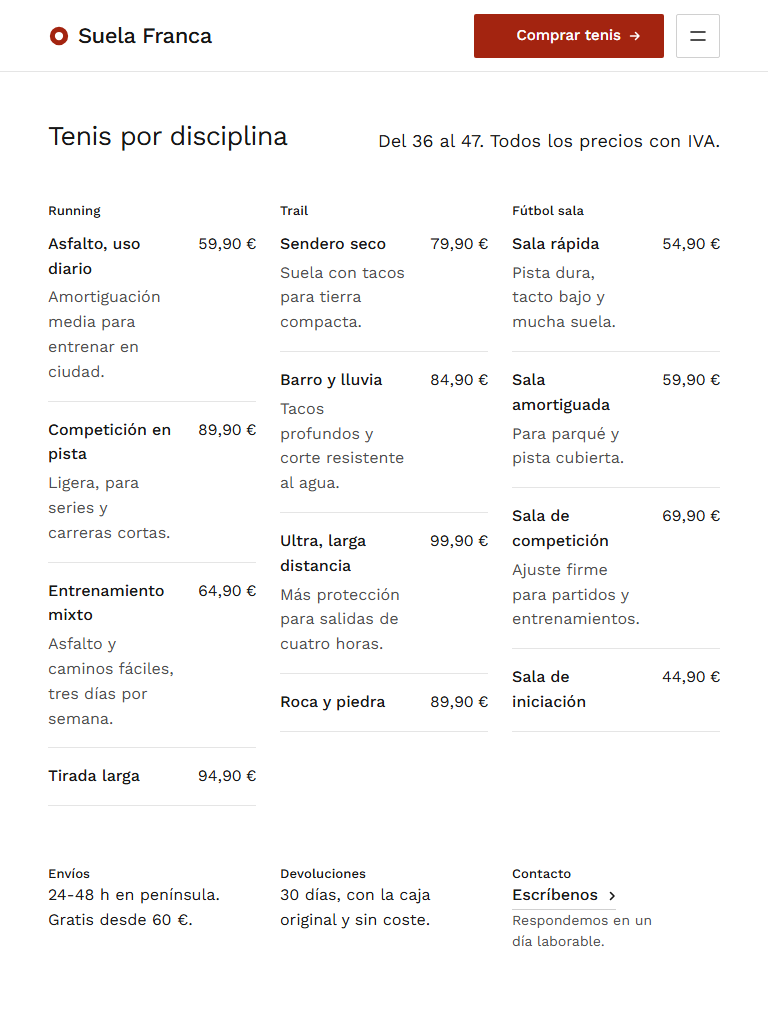
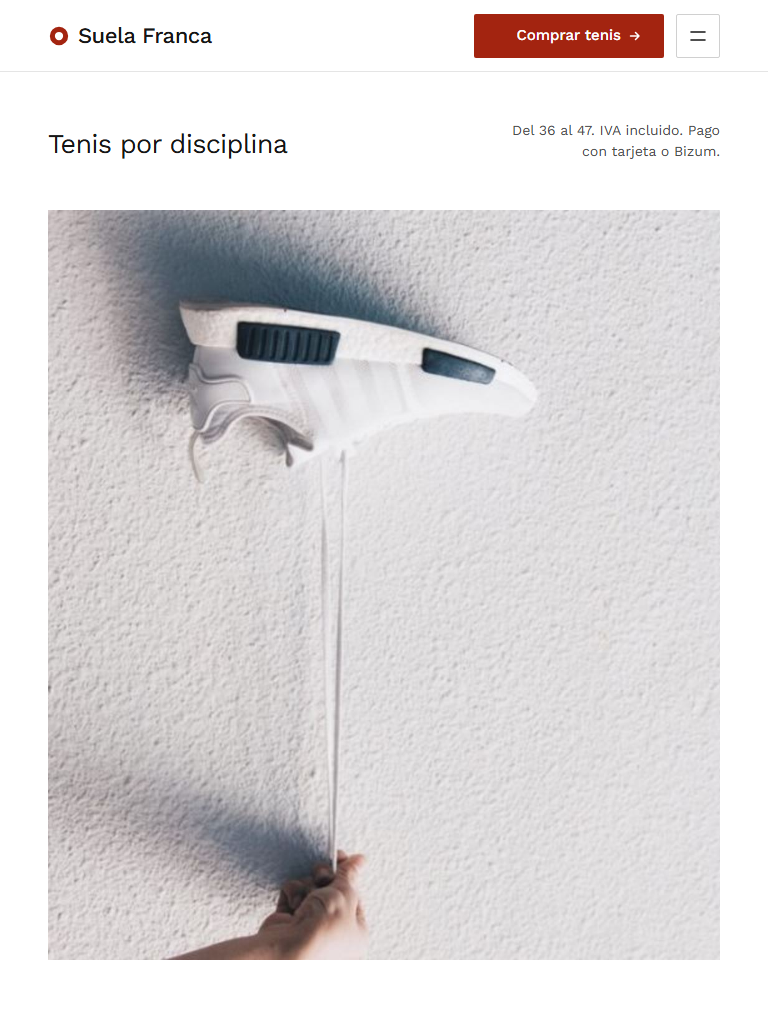
Se agregan imagenes

diff --git a/suela-franca/index.html b/suela-franca/index.html
@@ -1,9 +1,10 @@
 <!doctype html>
 <!-- kind: place (a shop; it sells online, so no street is printed and the visit block carries orders, shipping and contact)
-     deal: hero statement on .ground-brand (no photographs), nav-split, footer-columns, rhythm space (the colour-band
-           close is dropped: the hero is the page's one brand band), buttons arrow, mark ring, no effect, no moment,
-           no scene; the short page drops the place section, the type moment and the rooms layout.
-     copy: Suela Franca, a coined name (names.json); Valencia and the prices, shipping and returns terms are assumed. -->
+     deal: hero--place (the photograph full-bleed under the header, the words below on the ground), nav-split,
+           footer-columns, rhythm space, buttons arrow, mark ring, no effect, no moment, no scene; the short page
+           drops the place section, the type moment and the rooms layout. One photograph sits in the offer row.
+     copy: Suela Franca, a coined name (names.json); Valencia and the prices, shipping and returns terms are assumed.
+     photos: Rawpixel and Allie Nimmons (CC0), temporary stand-ins for the shop's own running, trail and futsal frames. -->
 <html lang="es" data-type="place" data-page-mode="short" data-radius="soft" data-buttons="arrow" data-motion>
 <head>
 <meta charset="utf-8">
@@ -13,6 +14,8 @@
 <meta name="site-kind" content="other">
 <meta name="page-type" content="place">
 <meta name="page-kind" content="place">
+<link rel="preload" href="assets/fonts/worksans-latin.woff2" as="font" type="font/woff2" crossorigin>
+<link rel="preload" href="assets/fonts/worksans-latin-ext.woff2" as="font" type="font/woff2" crossorigin>
 <link rel="stylesheet" href="assets/system.css">
 <link rel="stylesheet" href="assets/motion/motion.css">
 <link rel="stylesheet" href="assets/layout/layout.css">
@@ -43,20 +46,13 @@
   --display-weight: 400;
   --display-tracking: -0.025em;
 }
-/* a place: the statement hero at the place's own heading size (48/53, never the tech statement's 56) */
-.hero--statement h1 { font-size: var(--t-h1); line-height: 1.104; letter-spacing: var(--display-tracking); }
-/* the hero's three blocks (the name, the sub-line and action, the facts) share the band's height, no rule between them */
-.hero--statement .hero__facts { border-top: 0; padding-top: 0; margin-top: 0; }
-.hero--statement .hero__facts dt { color: var(--ink); }
-.hero__mid .btn-row { margin-top: var(--s-6); }
-/* the band's space inside matches the next section's --padt (they read as one gap at the change of ground) */
-@media (min-width: 640px) { main > section.hero--statement { padding-bottom: var(--padt); } }
+/* the hero's two crops: a 4:3 frame for the tablet and the phone, a 3:1 band at the desktop (see the <picture>) */
+.hero--place > picture.hero__bg > img { object-position: 50% 50%; }
 /* the nav's primary carries the dealt arrow: a blank of the same width keeps its label centred */
 @media (min-width: 640px) { .nav__actions .btn::before { content: ""; flex: none; width: 12px; height: 12px; margin-left: -2px; } }
 @media (max-width: 639px) { html[data-buttons="arrow"] .nav__actions .btn--primary::after { content: none; } }
 /* the phone's menu button answers the pointer like every other control */
 .nav__toggle:hover { background: color-mix(in oklab, var(--p-bg) 90%, var(--p-ink)); }
-@media (max-width: 639px) { .hero--statement .hero__facts { display: grid; } }
 /* the offer's head row: the h2 on the left line, its one line on the ninth column's line (a column start) */
 .head-row { display: grid; gap: var(--s-5); margin-bottom: var(--head-gap); }
 @media (min-width: 640px) {
@@ -64,28 +60,41 @@
   .head-row > div { grid-column: 1 / span 8; }
   .head-row > p { grid-column: 9 / -1; text-align: right; }
 }
+/* the offer's rhythm: one screen at the desktop, two on the phone; the tablet takes two too, with the photograph
+   full width (the media query below) */
+#modelos { --h: 1; --hm: 2; }
 /* the offer: a group label sits 12px over its ruled rows */
 .offer-group > .t-label { margin-bottom: var(--s-3); }
-.offer-group .rows > li > p { color: var(--muted); }
+/* the product photograph in the offer row: level with the group labels, a 4:5 portrait on the place */
+.offer-photo { --pl-r: .8; }
+.offer-photo > img { width: 100%; object-position: 50% 28%; }
 /* the visit block on the short page: three columns under the groups */
-.pedidos { margin-top: var(--s-8); }
+.pedidos { margin-top: var(--s-7); }
 .pedidos p { max-width: 34ch; }
-/* 640-1023: the three groups and the three order columns stay across, one screen (sections.md, the short page) */
+/* the last link never rests under the phone's action bar */
+.pedidos a { scroll-margin-block: calc(var(--bar) + var(--s-6)); }
+/* 640-1023: the photograph takes the first screen full width, the groups and the three order columns the second
+   (sections.md, the short page: with a photograph in the section, --h: 2 at the tablet) */
 @media (min-width: 640px) and (max-width: 1023px) {
-  #modelos .grid { grid-template-columns: repeat(3, minmax(0, 1fr)); }
-  #modelos .grid > .span-4 { grid-column: auto; }
+  #modelos { --h: 2; }
+  #modelos .offer-grid { grid-template-columns: repeat(3, minmax(0, 1fr)); }
+  #modelos .offer-grid > .offer-group { grid-column: auto; }
+  #modelos .offer-grid > .offer-photo { grid-column: 1 / -1; order: -1; }
+  #modelos .offer-photo > img {
+    aspect-ratio: auto;
+    width: 100%;
+    height: calc(var(--pl-room) - 1.25 * var(--t-h2) - var(--head-gap));
+    margin-bottom: calc(var(--padt) + var(--padb) + var(--bar) - var(--card-gap));
+    object-position: 50% 32%;
+  }
+  #modelos .pedidos { grid-template-columns: repeat(3, minmax(0, 1fr)); }
+  #modelos .pedidos > .span-4 { grid-column: auto; }
 }
-/* the descriptions are a desktop richness: the tablet holds the rows alone, one screen */
-@media (max-width: 799px) { .offer-group .rows > li > p { display: none; } }
-/* on the phone two lines a group keep the price list from reading as an empty middle */
+/* the phone: the photograph after the groups, a 16:9 band inside the section's two screens */
 @media (max-width: 639px) {
-  .offer-group .rows > li:nth-child(2) > p,
-  .offer-group .rows > li:nth-child(3) > p { display: block; }
-}
-/* at the small tablet the first three rows of each group keep their line: one screen, and no empty band under it */
-@media (min-width: 700px) and (max-width: 799px) {
-  .offer-group .rows > li:not(:last-child) > p { display: block; }
-  #modelos .pedidos { margin-top: calc(var(--s-8) - 14px); }
+  .offer-photo > img { aspect-ratio: 16 / 9; height: auto; }
+  /* contact first on the phone: the link never sits under the fixed action bar at the section's foot */
+  #contacto { order: -1; }
 }
 </style>
 </head>
@@ -109,60 +118,60 @@
 </header>
 
 <main id="top">
-  <section class="hero hero--statement ground-brand" aria-labelledby="hero-h">
-    <div class="wrap">
-      <div class="hero-text hero__in">
+  <section class="hero hero--place" aria-labelledby="hero-h">
+    <picture class="hero__bg">
+      <source media="(max-width: 639px)" srcset="assets/img/hero-tenis-390.jpg">
+      <source media="(max-width: 1023px)" srcset="assets/img/hero-tenis-tablet.jpg">
+      <img src="assets/img/hero-tenis.jpg" width="1600" height="533" alt="Dos tenis blancos sobre un suelo de baldosas claras, vistos desde arriba" fetchpriority="high" data-source="library-wordpress" data-subject="tenis">
+    </picture>
+    <div class="wrap"><div class="hero-text">
+      <div class="hero__text">
         <h1 id="hero-h">Tenis deportivos online desde Valencia</h1>
-        <div class="hero__mid">
-          <p class="hero__lead">Running, trail y fútbol sala. Envío en 24-48 h y 30 días para devolver.</p>
-          <div class="btn-row">
-            <a class="btn btn--primary" href="#modelos">Comprar tenis<svg class="m-arrow" viewBox="0 0 12 12" aria-hidden="true"><path class="m-arrow__stem" d="M1 6h8"/><path class="m-arrow__head" d="M4.5 2.5 8 6l-3.5 3.5"/></svg></a>
-          </div>
+        <p class="hero__lead">Running, trail y fútbol sala. Envío en 24-48 h y 30 días para devolver.</p>
+        <div class="btn-row">
+          <a class="btn btn--primary" href="#modelos">Comprar tenis<svg class="m-arrow" viewBox="0 0 12 12" aria-hidden="true"><path class="m-arrow__stem" d="M1 6h8"/><path class="m-arrow__head" d="M4.5 2.5 8 6l-3.5 3.5"/></svg></a>
         </div>
-        <dl class="hero__facts">
-          <div><dt>Tallas</dt><dd>36 a 47</dd></div>
-          <div><dt>Envío gratis</dt><dd>Desde 60 €</dd></div>
-          <div><dt>Pago</dt><dd>Tarjeta o Bizum</dd></div>
-          <div><dt>Atención</dt><dd>1 día laborable</dd></div>
-        </dl>
       </div>
-    </div>
+    </div></div>
   </section>
 
-  <section class="section" id="modelos" style="--h: 1; --hm: 2" aria-labelledby="modelos-h">
+  <section class="section" id="modelos" aria-labelledby="modelos-h">
     <div class="wrap">
       <div class="head-row">
         <div><h2 id="modelos-h">Tenis por disciplina</h2></div>
-        <p class="t-small muted">Del 36 al 47. Todos los precios con IVA.</p>
+        <p class="t-small muted">Del 36 al 47. IVA incluido. Pago con tarjeta o Bizum.</p>
       </div>
-      <div class="grid">
-        <div class="span-4 offer-group" id="running">
+      <div class="grid grid--top offer-grid">
+        <div class="span-3 offer-group" id="running">
           <p class="t-label">Running</p>
           <ul class="rows">
-            <li><span class="rows__name">Asfalto, uso diario</span><span class="rows__value">59,90 €</span><p>Amortiguación media para entrenar en ciudad.</p></li>
-            <li><span class="rows__name">Competición en pista</span><span class="rows__value">89,90 €</span><p>Ligera, para series y carreras cortas.</p></li>
-            <li><span class="rows__name">Entrenamiento mixto</span><span class="rows__value">64,90 €</span><p>Asfalto y caminos fáciles, tres días por semana.</p></li>
-            <li><span class="rows__name">Tirada larga</span><span class="rows__value">94,90 €</span><p>Para medias maratones y rodajes de dos horas.</p></li>
+            <li><span class="rows__name">Asfalto diario</span><span class="rows__value">59,90 €</span></li>
+            <li><span class="rows__name">Competición</span><span class="rows__value">89,90 €</span></li>
+            <li><span class="rows__name">Mixto, asfalto</span><span class="rows__value">64,90 €</span></li>
+            <li><span class="rows__name">Tirada larga</span><span class="rows__value">94,90 €</span></li>
           </ul>
         </div>
-        <div class="span-4 offer-group" id="trail">
+        <div class="span-3 offer-group" id="trail">
           <p class="t-label">Trail</p>
           <ul class="rows">
-            <li><span class="rows__name">Sendero seco</span><span class="rows__value">79,90 €</span><p>Suela con tacos para tierra compacta.</p></li>
-            <li><span class="rows__name">Barro y lluvia</span><span class="rows__value">84,90 €</span><p>Tacos profundos y corte resistente al agua.</p></li>
-            <li><span class="rows__name">Ultra, larga distancia</span><span class="rows__value">99,90 €</span><p>Más protección para salidas de cuatro horas.</p></li>
-            <li><span class="rows__name">Roca y piedra</span><span class="rows__value">89,90 €</span><p>Suela adherente en terreno técnico.</p></li>
+            <li><span class="rows__name">Sendero seco</span><span class="rows__value">79,90 €</span></li>
+            <li><span class="rows__name">Barro y lluvia</span><span class="rows__value">84,90 €</span></li>
+            <li><span class="rows__name">Ultra, 4 horas</span><span class="rows__value">99,90 €</span></li>
+            <li><span class="rows__name">Roca y piedra</span><span class="rows__value">89,90 €</span></li>
           </ul>
         </div>
-        <div class="span-4 offer-group" id="futbol-sala">
+        <div class="span-3 offer-group" id="futbol-sala">
           <p class="t-label">Fútbol sala</p>
           <ul class="rows">
-            <li><span class="rows__name">Sala rápida</span><span class="rows__value">54,90 €</span><p>Pista dura, tacto bajo y mucha suela.</p></li>
-            <li><span class="rows__name">Sala amortiguada</span><span class="rows__value">59,90 €</span><p>Para parqué y pista cubierta.</p></li>
-            <li><span class="rows__name">Sala de competición</span><span class="rows__value">69,90 €</span><p>Ajuste firme para partidos y entrenamientos.</p></li>
-            <li><span class="rows__name">Sala de iniciación</span><span class="rows__value">44,90 €</span><p>Para empezar, con suela flexible.</p></li>
+            <li><span class="rows__name">Sala rápida</span><span class="rows__value">54,90 €</span></li>
+            <li><span class="rows__name">Sala cómoda</span><span class="rows__value">59,90 €</span></li>
+            <li><span class="rows__name">Competición</span><span class="rows__value">69,90 €</span></li>
+            <li><span class="rows__name">Iniciación</span><span class="rows__value">44,90 €</span></li>
           </ul>
         </div>
+        <figure class="pl-photo span-3 offer-photo">
+          <img src="assets/img/detalle-tenis.jpg" srcset="assets/img/detalle-tenis.jpg 600w, assets/img/detalle-tenis-1200.jpg 1200w" sizes="(min-width: 640px) and (max-width: 1023px) 88vw, 342px" width="600" height="600" alt="Una mano sostiene un tenis blanco por los cordones contra una pared clara" loading="lazy" data-source="library-rawpixel" data-subject="tenis">
+        </figure>
       </div>
       <div class="grid pedidos" id="pedidos">
         <div class="span-4" id="envios">
@@ -217,7 +226,7 @@
           </ul>
         </div>
       </div>
-      <div class="footer__legal"><span>© 2026 Suela Franca</span></div>
+      <div class="footer__legal"><span>© 2026 Suela Franca · Fotografías: Rawpixel y Allie Nimmons (CC0)</span></div>
     </div>
   </div>
 </footer>
